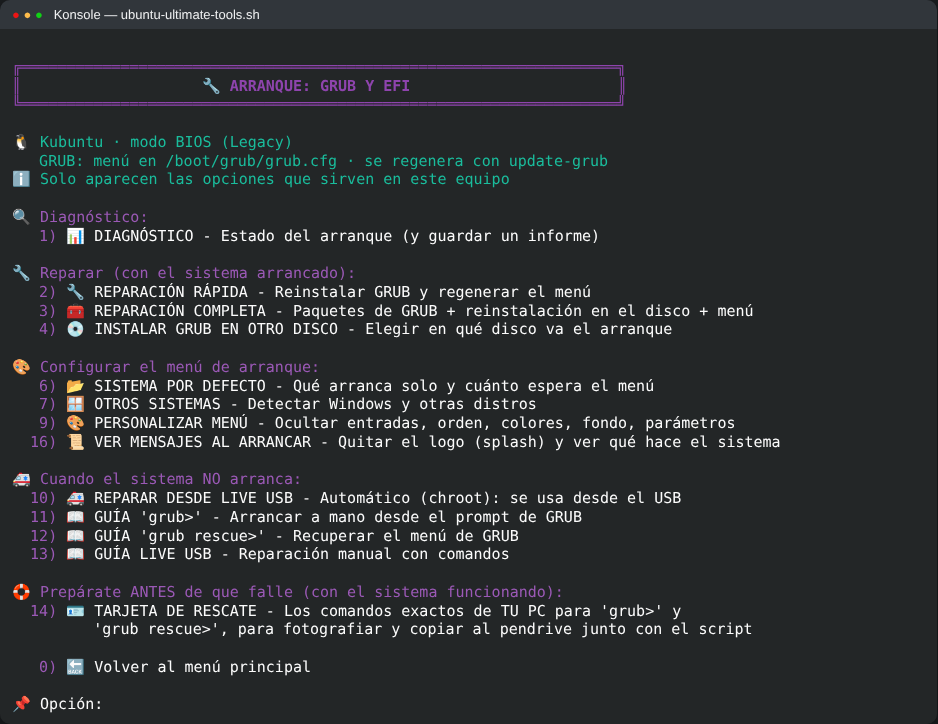
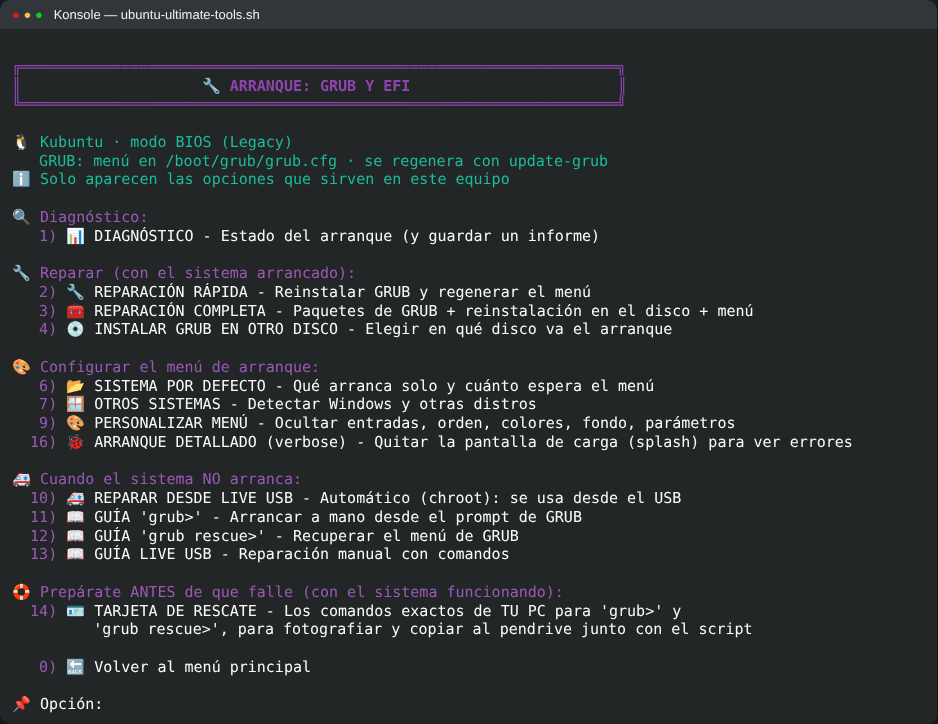
Arranque detallado (verbose): nombre correcto y restaurar la pantalla de carga
- Opción 19 → 16: ARRANQUE DETALLADO (verbose) - Quitar la pantalla de carga (splash) para ver errores
- Activo: elige para restaurar la pantalla de carga (splash) y el arranque silencioso
- Textos, Parámetros del kernel, README y capturas con los nombres nuevos

Changed region(s): [[0.0618, 0.5773, 0.8966, 0.6381]]

diff --git a/README.md b/README.md
@@ -264,7 +264,7 @@ Todo lo hace el propio script, sin instalar programas externos.
 | | **7** Otros sistemas | Detectar Windows y otras distros (`os-prober`, que Ubuntu, Debian y Arch traen desactivado) |
 | | **8** Orden de arranque UEFI | Poner una entrada primera, o arrancarla solo la próxima vez |
 | | **9** Personalizar menú | **Ocultar cualquier entrada** marcándola con la barra espaciadora (cada kernel, Windows, cada memtest, UEFI...), mostrar otros sistemas antes que Kubuntu, recordar el último elegido, colores, imagen de fondo, resolución, parámetros del kernel, **restaurar el menú original** y **deshacer los cambios de Grub Customizer** |
-| | **16** Ver mensajes al arrancar | **Quita el logo (splash) y el modo silencioso** para ver qué hace el sistema al encender: útil para saber en qué se traba o qué tarda. Reconoce `quiet splash` (Ubuntu, Debian), `rhgb quiet` (Fedora, también en cada kernel con `grubby`), `splash=silent` (openSUSE) y `loglevel=3` (Arch). Recuerda cómo estaba y la misma opción lo **vuelve al logo**. En Ubuntu y Debian usa un archivo propio en `/etc/default/grub.d/` (no toca `/etc/default/grub` y respeta los ajustes de las imágenes de la nube) |
+| | **16** Arranque detallado (verbose) | **Quita la pantalla de carga (splash, la dibuja Plymouth) y el arranque silencioso (quiet)**, que tapan los errores: ves cada paso del sistema al encender y en qué se traba. Reconoce `quiet splash` (Ubuntu, Debian), `rhgb quiet` (Fedora, también en cada kernel con `grubby`), `splash=silent` (openSUSE) y `loglevel=3` (Arch). Recuerda cómo estaba y la misma opción **restaura la pantalla de carga**. En Ubuntu y Debian usa un archivo propio en `/etc/default/grub.d/` (no toca `/etc/default/grub` y respeta los ajustes de las imágenes de la nube) |
 | 🚑 | **10** Reparar desde Live USB | Reparación automática con chroot cuando el sistema no arranca |
 | | **11–13** Guías | Prompt `grub>`, `grub rescue>` y reparación manual desde Live USB. Las de `grub>` y `grub rescue>` muestran primero **los comandos exactos de tu PC** y luego cómo hacer que GRUB busque solo dónde está Ubuntu |
 | 🛟 | **14** Tarjeta de rescate | Los comandos exactos de **tu** PC para `grub>` y `grub rescue>`, para fotografiar y copiar al pendrive junto con el script |
